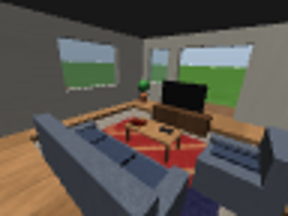
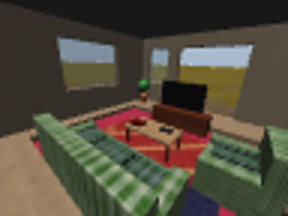
A more real house: photographed CC0 textures, physically based materials, a Filament renderer for the GPU
- real_assets.py fetches photographed textures (colour, surface relief, occlusion/roughness/
  metal) and a real indoor environment (Poly Haven, CC0) into data/real/ (gitignored, 41 MB);
  the house uses them when present (wood laminate, kitchen and bathroom tiles, plaster,
  stone worktop, fabrics, oak, dark wood, weathered deck, grass) and its own textures if not.
  The robot's camera (classic renderer) shows them too.
- every material has physical roughness/metalness for MuJoCo 4's Filament renderer.
- render_real.py: realistic views through Filament (Vulkan on a GPU such as the RX 6700 XT;
  OpenGL with KESTREL_FILAMENT_API=opengl). Checked here in software: Mesa's software Vulkan
  crashes on the robot's geometry, the OpenGL path renders it.
- room renders updated.

Claude-Session: https://claude.ai/code/session_011vtn8M4hHLFwUZMmG7kshf

diff --git a/projects/kestrel-humanoid/brain/real_assets.py b/projects/kestrel-humanoid/brain/real_assets.py
@@ -1,0 +1,111 @@
+"""Real surfaces for the house: photographed, physically based textures (colour, surface relief and occlusion /
+roughness / metal maps) and a real indoor environment for lighting, from Poly Haven (polyhaven.com), all CC0 (free for
+any use, no attribution needed).
+
+    python real_assets.py          # downloads about 45 MB into data/real/ (once; the house uses them from then on)
+
+Without them the house uses its own generated textures, so nothing breaks offline. They are not in git: they are
+large, and anyone can fetch them again with this script.
+"""
+from __future__ import annotations
+
+import io
+import json
+import math
+import sys
+import urllib.request
+from pathlib import Path
+
+import numpy as np
+
+HERE = Path(__file__).resolve().parent
+DEST = HERE / "data" / "real"
+API = "https://api.polyhaven.com/files/"
+
+# house material -> (Poly Haven texture, repeats per metre: how big one image is on the surface)
+TEXTURES = {
+    "wood_floor": ("laminate_floor_02", 0.45), "tile_floor": ("interior_tiles", 0.5), "bath_floor": ("granite_tile_03", 0.6),
+    "carpet": ("velour_velvet", 0.8), "paint": ("beige_wall_001", 0.4), "grass": ("aerial_grass_rock", 0.25),
+    "deck": ("weathered_brown_planks", 0.45), "fabric_grey": ("fabric_pattern_07", 1.2), "fabric_bed": ("fabric_pattern_05", 1.0),
+    "wood_dark": ("dark_wood", 0.8), "wood_light": ("oak_veneer_01", 0.8), "worktop": ("grey_cartago_03", 0.6),
+}
+HDRI = "lebombo"                       # a lived-in living room: the light the house is lit with in the Filament view
+FACE = 512                             # pixels per cube face of the environment
+
+
+def _get(url, timeout=60):
+    req = urllib.request.Request(url, headers={"User-Agent": "kestrel-house-assets"})
+    with urllib.request.urlopen(req, timeout=timeout) as r:
+        return r.read()
+
+
+def _png(data, path, mode="RGB"):
+    from PIL import Image
+    Image.open(io.BytesIO(data)).convert(mode).save(path)
+
+
+def equirect_to_cube(img, n=FACE):
+    """An equirectangular panorama -> MuJoCo's skybox grid (3 x 4 faces, layout '.U..LFRB.D..'), Z up."""
+    h, w, _ = img.shape
+    out = np.zeros((3 * n, 4 * n, 3), np.uint8)
+    a = (np.arange(n) + 0.5) / n * 2 - 1
+    u, v = np.meshgrid(a, -a)                                     # u right, v up on each face
+    # MuJoCo skybox faces (Z up): direction for each face pixel
+    faces = {"F": (np.ones_like(u), u, v), "B": (-np.ones_like(u), -u, v), "R": (-u, np.ones_like(u), v),
+             "L": (u, -np.ones_like(u), v), "U": (-v, u, np.ones_like(u)), "D": (v, u, -np.ones_like(u))}
+    cells = {"U": (0, 1), "L": (1, 0), "F": (1, 1), "R": (1, 2), "B": (1, 3), "D": (2, 1)}
+    for f, (x, y, z) in faces.items():
+        lon = np.arctan2(y, x)
+        lat = np.arctan2(z, np.hypot(x, y))
+        px = ((0.5 - lon / (2 * math.pi)) % 1.0) * (w - 1)
+        py = (0.5 - lat / math.pi) * (h - 1)
+        r, c = cells[f]
+        out[r * n:(r + 1) * n, c * n:(c + 1) * n] = img[py.astype(int), px.astype(int)]
+    return out
+
+
+def fetch(dest=DEST, verbose=True):
+    dest.mkdir(parents=True, exist_ok=True)
+    manifest = {"textures": {}, "hdri": None, "license": "CC0 (Poly Haven)"}
+    for mat, (tid, rep) in TEXTURES.items():
+        files = {k: dest / f"{tid}_{k}.png" for k in ("rgb", "normal", "orm")}
+        try:
+            if not all(p.exists() for p in files.values()):
+                info = json.loads(_get(API + tid))
+                colour = "Diffuse" if "Diffuse" in info else sorted(k for k in info if k.lower().startswith("col"))[0]
+                for key, kind in ((colour, "rgb"), ("nor_gl", "normal"), ("arm", "orm")):
+                    _png(_get(info[key]["1k"]["jpg"]["url"]), files[kind])
+            manifest["textures"][mat] = dict(id=tid, repeat=rep, **{k: p.name for k, p in files.items()})
+            if verbose:
+                print(f"  {mat:12s} <- {tid}", flush=True)
+        except Exception as e:                                    # one missing texture: the generated one stays
+            print(f"  {mat:12s} skipped ({type(e).__name__}: {e})", flush=True)
+    try:
+        cube = dest / f"{HDRI}_cube.png"
+        if not cube.exists():
+            from PIL import Image
+            info = json.loads(_get(API + HDRI))
+            pano = np.asarray(Image.open(io.BytesIO(_get(info["tonemapped"]["url"]))).convert("RGB"))
+            Image.fromarray(equirect_to_cube(pano)).save(cube)
+        manifest["hdri"] = dict(id=HDRI, cube=cube.name)
+        if verbose:
+            print(f"  environment  <- {HDRI}", flush=True)
+    except Exception as e:
+        print(f"  environment  skipped ({type(e).__name__}: {e})", flush=True)
+    (dest / "manifest.json").write_text(json.dumps(manifest, indent=1))
+    return manifest
+
+
+def manifest(dest=DEST):
+    p = dest / "manifest.json"
+    try:
+        return json.loads(p.read_text()) if p.exists() else None
+    except ValueError:
+        return None
+
+
+if __name__ == "__main__":
+    print("Fetching real textures and an indoor environment (CC0, polyhaven.com) ...")
+    m = fetch()
+    print(f"{len(m['textures'])} textures, environment: {bool(m['hdri'])} -> {DEST}")
+    sys.exit(0)

diff --git a/projects/kestrel-humanoid/brain/render_real.py b/projects/kestrel-humanoid/brain/render_real.py
@@ -1,0 +1,104 @@
+"""Realistic pictures of the house: MuJoCo 4's Filament renderer (physically based materials, image-based lighting,
+soft shadows, ambient occlusion, bloom, tone mapping), on the GPU through Vulkan or OpenGL.
+
+    from render_real import RealView
+    rv = RealView(house)                       # once
+    img = rv.render("follow")                  # an RGB array, like house.chase_view("follow")
+
+    python render_real.py                      # stills of every room -> runs/real_*.png
+
+On a computer with a GPU (an AMD Radeon RX 6700 XT, an NVIDIA or Intel card) it renders through Vulkan, in real time.
+Without one (a cloud machine, a codespace) it falls back to software Vulkan (Mesa's lavapipe: apt install
+mesa-vulkan-drivers), which is slow but gives the same pictures. The classic renderer (house.chase_view) stays
+available everywhere and is what the robot's own camera uses when Filament can't start.
+
+Filament works in physical units: lights are in candela, the camera exposure is for a lit room, so the house's lights
+carry real intensities (house.py) and an image light (the sky through the windows) gives the ambient light.
+"""
+from __future__ import annotations
+
+import math
+import os
+
+import numpy as np
+
+
+class RealView:
+    def __init__(self, house, width=960, height=600, api=None):
+        import mujoco
+        from mujoco import mjrf
+        import mujoco.studio.window  # noqa: F401  (registers the filament: material and asset files)
+        from mujoco.rendering.filament.renderer import Renderer, View
+        self.mj, self.mjrf, self.View = mujoco, mjrf, View
+        self.h = house
+        self.w, self.ht = width, height
+        api = api or os.environ.get("KESTREL_FILAMENT_API", "vulkan")
+        gapi = mjrf.GraphicsApi.GRAPHICS_API_VULKAN if api == "vulkan" else mjrf.GraphicsApi.GRAPHICS_API_OPENGL
+        soft = os.environ.get("KESTREL_FILAMENT_SOFTWARE", "auto")
+        self.ctx = mjrf.Context(mjrf.ContextConfig(graphics_api=gapi,
+                                                   software_rendering=None if soft == "auto" else soft == "1"))
+        self.r = Renderer(self.ctx)
+        m = house.mv
+        self.scene = self.r.scene("house")
+        self.scene.configure_from_model(m)
+        self.res = mjrf.ModelResources(self.ctx, m)
+        self.rend = mjrf.ModelRenderables(self.scene, self.res)
+        self.lights = mjrf.ModelLights(self.scene, self.res)
+        self.buf = np.zeros((height, width, 3), np.uint8)
+        self.r.target("out", self.buf)
+        self.cam = mujoco.MjvCamera()
+        self.opt = mujoco.MjvOption()
+        self.abstract = mujoco.MjvScene(m, maxgeom=20000)
+        self.pert = mujoco.MjvPerturb()
+
+    def _camera(self, view):
+        """A camera like the classic renderer's views: behind the robot, the whole house, or the robot's head."""
+        h, cam = self.h, self.cam
+        x, y, yaw = h.robot_pose()
+        z = h.floor_z(x, y)
+        if view == "head" and getattr(h, "cam_id", None) is not None:
+            cam.type = self.mj.mjtCamera.mjCAMERA_FIXED
+            cam.fixedcamid = h.cam_id
+        elif view == "house":
+            cam.type = self.mj.mjtCamera.mjCAMERA_FREE
+            cam.lookat[:] = [4.0, 4.5, 0.0]
+            cam.distance, cam.elevation, cam.azimuth = 17.0, -55.0, 90.0
+        else:
+            cam.type = self.mj.mjtCamera.mjCAMERA_FREE
+            cam.lookat[:] = [x, y, z + 0.8]
+            cam.distance, cam.elevation, cam.azimuth = 3.2, -22.0, math.degrees(yaw) + 180.0 - 25.0
+        return cam
+
+    def render(self, view="follow"):
+        h = self.h
+        h._sync()                                    # the render model follows the simulation
+        self.rend.update(h.dv)
+        self.lights.update(h.dv)
+        self.mj.mjv_updateScene(h.mv, h.dv, self.opt, self.pert, self._camera(view), self.mj.mjtCatBit.mjCAT_ALL,
+                                self.abstract)
+        glcam = self.abstract.camera[0]
+        self.r.render([self.View(scene="house", target="out", camera=glcam)])
+        return self.buf.copy()
+
+
+def main():
+    import house as HS
+    from PIL import Image
+    h = HS.House(chase_size=(960, 600))
+    h.reset()
+    for _ in range(25):
+        h.step()
+    rv = RealView(h)
+    out = HS.HERE / "runs"
+    shots = [("kitchen", 4.2, 4.0, -2.4), ("living", 10.0, 4.8, -0.9), ("bath", 6.7, 7.1, 1.57)]
+    Image.fromarray(rv.render("house")).save(out / "real_overview.png")
+    for name, x, y, yaw in shots:
+        h.place_robot(x, y, yaw)
+        for _ in range(10):
+            h.step()
+        Image.fromarray(rv.render("follow")).save(out / f"real_{name}.png")
+    print("wrote", sorted(p.name for p in out.glob("real_*.png")))
+
+
+if __name__ == "__main__":
+    main()

diff --git a/projects/kestrel-humanoid/brain/house.py b/projects/kestrel-humanoid/brain/house.py
@@ -173,13 +173,39 @@ MATERIALS = {   # name: (texture or None, rgba, texrepeat per metre, reflectance
 }
 
 
+# physically based surface properties for the Filament renderer (render_real.py): roughness 0 = mirror-smooth,
+# 1 = fully matte; metallic 1 = bare metal. The classic renderer ignores them.
+PBR = {"wood_floor": (0.55, 0), "tile_floor": (0.22, 0), "bath_floor": (0.18, 0), "carpet": (0.95, 0), "paint": (0.85, 0),
+       "grass": (0.9, 0), "deck": (0.7, 0), "rug_red": (0.95, 0), "rug_blue": (0.95, 0), "fabric_grey": (0.9, 0),
+       "fabric_bed": (0.92, 0), "wood_dark": (0.45, 0), "wood_light": (0.5, 0), "worktop": (0.28, 0), "cabinet": (0.4, 0),
+       "steel": (0.28, 1), "black": (0.35, 0), "white": (0.2, 0), "glass": (0.04, 0), "plant": (0.7, 0),
+       "pot": (0.8, 0), "lamp": (0.3, 0)}
+
+
 def assets_xml():
-    out = ['<texture type="skybox" builtin="gradient" rgb1="0.62 0.76 0.94" rgb2="0.95 0.96 1.0" width="256" height="256"/>']
+    out = ['<texture name="house_sky" type="skybox" builtin="gradient" rgb1="0.62 0.76 0.94" rgb2="0.95 0.96 1.0" width="256" '
+           'height="256"/>']
     for f in sorted(TEX_DIR.glob("*.png")):
         out.append(f'<texture name="t_{f.stem}" type="2d" file="{f.as_posix()}"/>')
+    import real_assets as RA                   # photographed textures and a real environment, if fetched
+    real = RA.manifest() or {"textures": {}, "hdri": None}
+    if real.get("hdri"):
+        out[0] = (f'<texture name="house_sky" type="skybox" file="{(RA.DEST / real["hdri"]["cube"]).as_posix()}" '
+                  f'gridsize="3 4" gridlayout=".U..LFRB.D.."/>')
     for name, (tex, rgba, rep, refl) in MATERIALS.items():
+        rough, metal = PBR.get(name, (0.6, 0))
+        r_ = real["textures"].get(name)
+        if r_ is not None:                       # colour, surface relief, occlusion/roughness/metal: real surfaces
+            for kind in ("rgb", "normal", "orm"):
+                out.append(f'<texture name="r_{name}_{kind}" type="2d" file="{(RA.DEST / r_[kind]).as_posix()}"/>')
+            rp = r_["repeat"]
+            out.append(f'<material name="{name}" texrepeat="{rp} {rp}" texuniform="true" reflectance="{refl}">'
+                       f'<layer texture="r_{name}_rgb" role="rgb"/><layer texture="r_{name}_normal" role="normal"/>'
+                       f'<layer texture="r_{name}_orm" role="orm"/></material>')
+            continue
         t = f' texture="t_{tex}" texrepeat="{rep} {rep}" texuniform="true"' if tex else ""
-        out.append(f'<material name="{name}"{t} rgba="{" ".join(map(str, rgba))}" reflectance="{refl}"/>')
+        pbr = f' roughness="{rough}" metallic="{metal}"' if rgba[3] >= 1 else ""      # (transparent: classic shading)
+        out.append(f'<material name="{name}"{t} rgba="{" ".join(map(str, rgba))}" reflectance="{refl}"{pbr}/>')
     return "<asset>\n    " + "\n    ".join(out) + "\n  </asset>"
 
 
